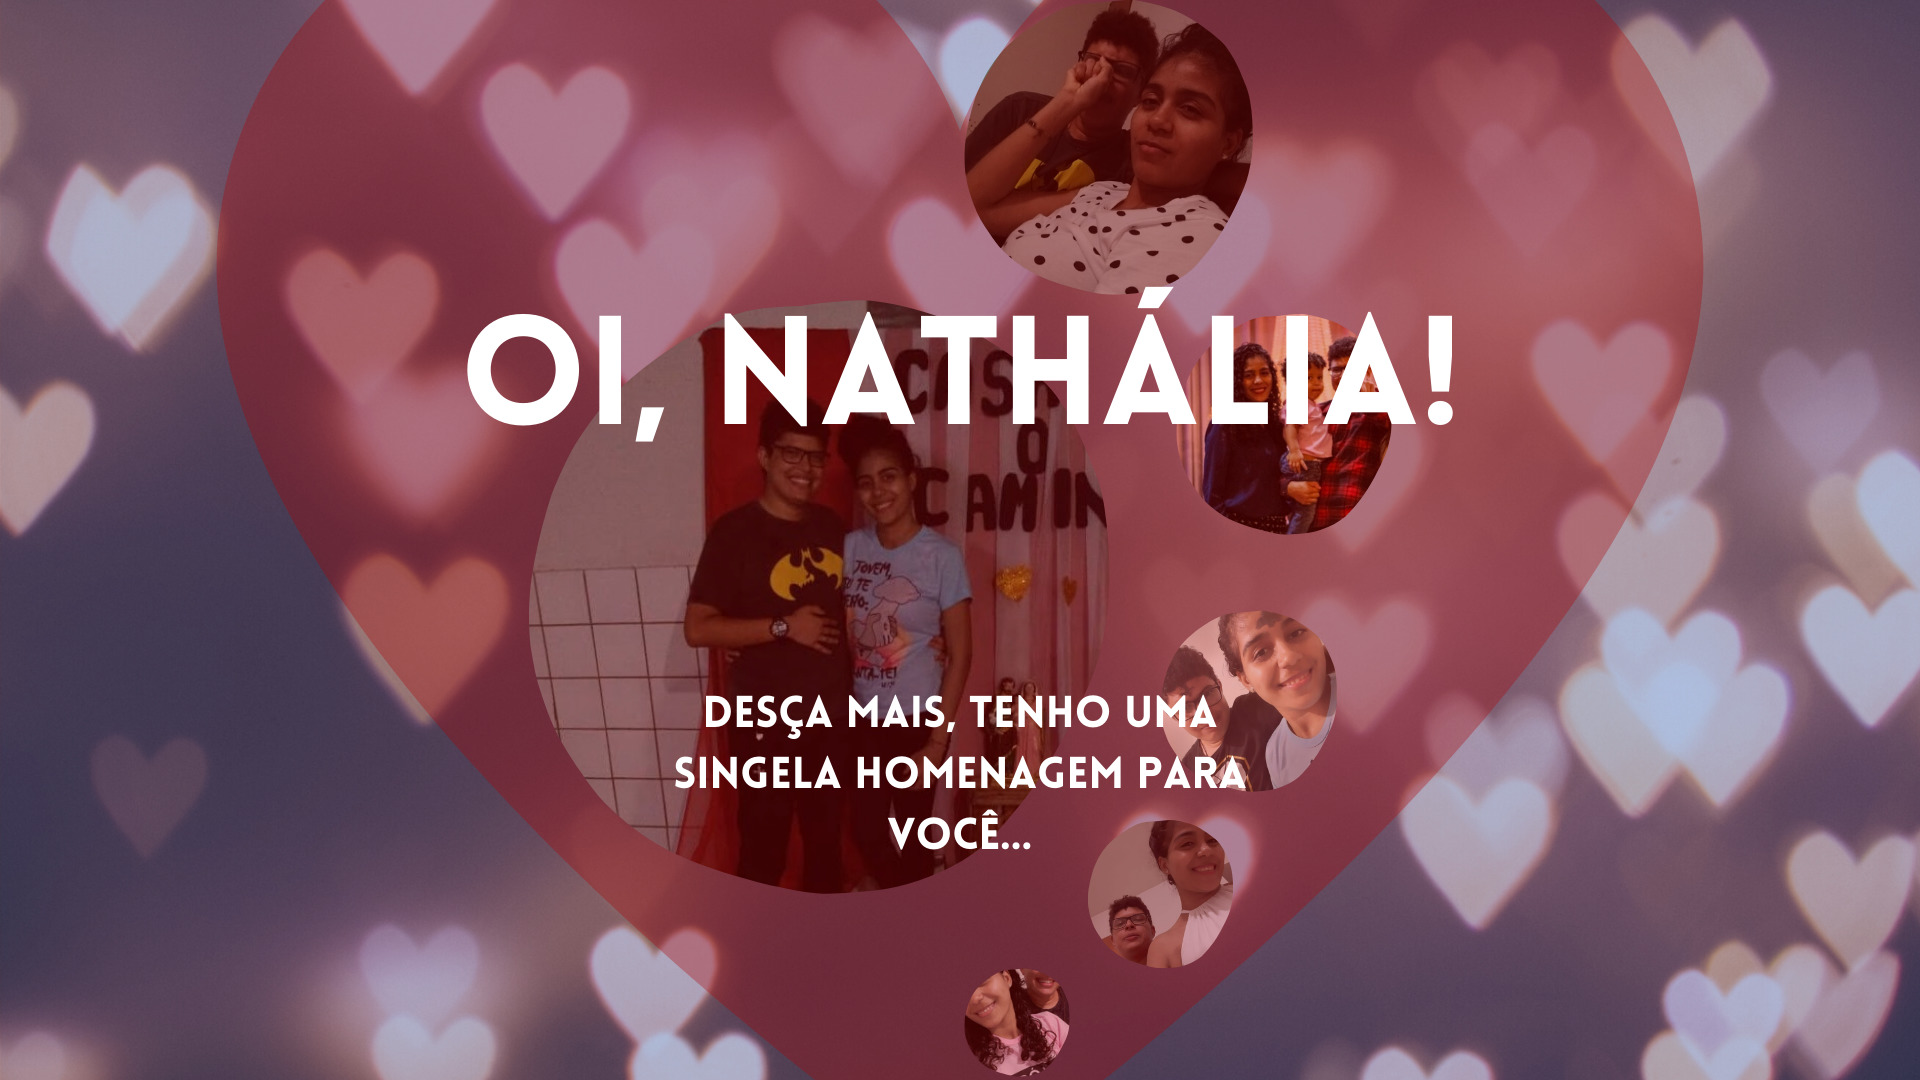
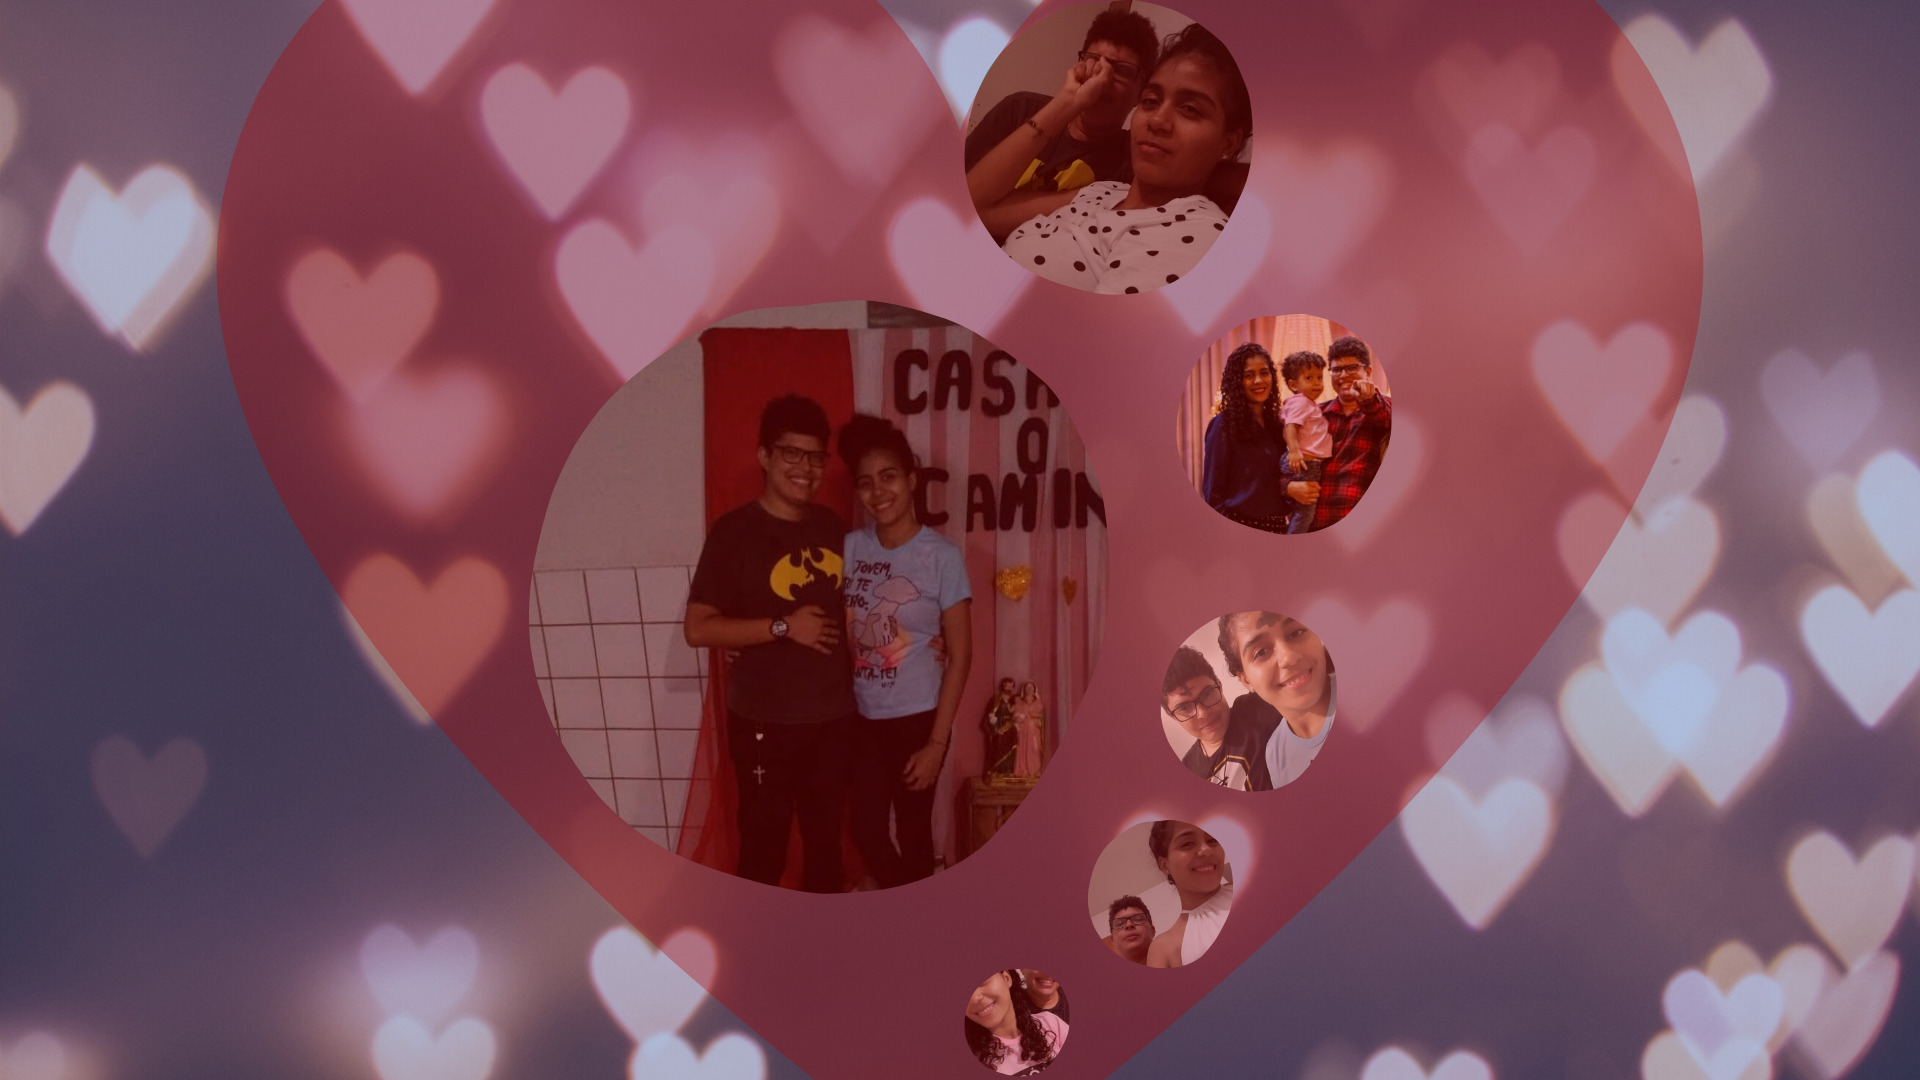
teste

diff --git a/nathyjolie.html b/nathyjolie.html
@@ -31,7 +31,10 @@
 		<div class="row" id="superior_div">
 			<div class="row">
 				<div class="container ">
-					
+                    <img id="img_profile" class="circle z-depth-4 materialboxed" src="images/perfil.jpg">
+                    <p id="welcome_phrase">Olá, <b>Nathália Oliveira</b></p>
+                    <p id="welcome_sub_phrase">Feliz dia dos namorados!!!</p>
+                    <p id="welcome_sub_phrase">Desça mais, tenho uma supresinha para a vossa belezidade...</p>
 				</div>
 			</div>
 		</div>

diff --git a/css/nathyjolie.css b/css/nathyjolie.css
@@ -121,14 +121,14 @@ body{
 
 #welcome_phrase{
 	text-align: center;
-	font-size: 3vh;
-	line-height: 3vh;
-	color: #000;
+	font-size: 4vh;
+	line-height: 4vh;
+	color: #DEDEDE;
 }
 
 #welcome_sub_phrase{
 	text-align: center;
-	font-size: 2vh;
+	font-size: 3vh;
 	color: #DEDEDE;
 }
 
